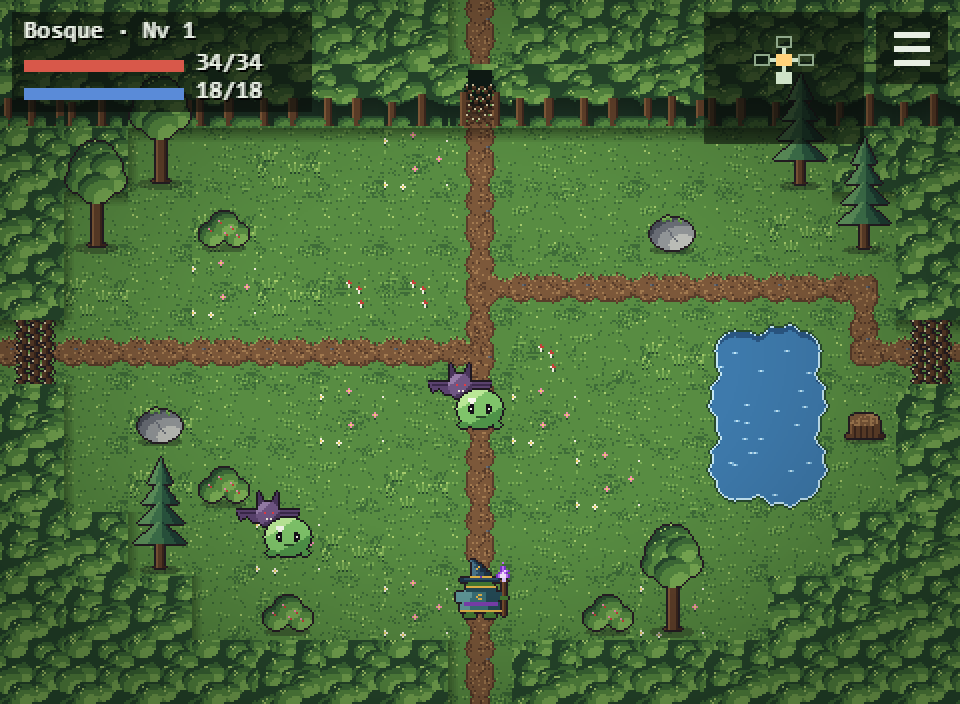
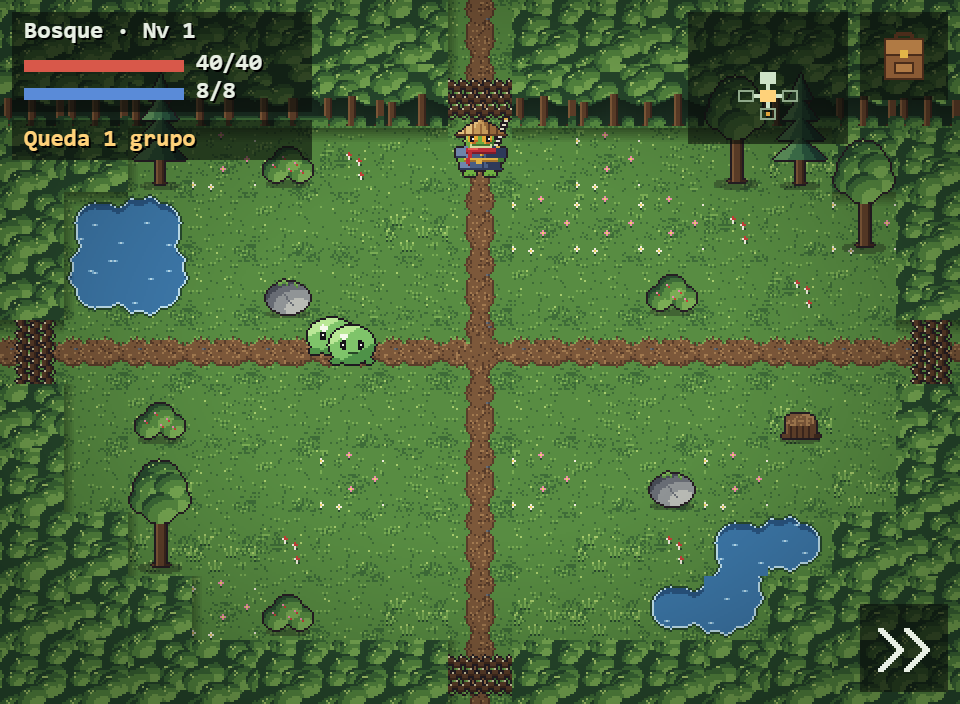
README al día: capturas nuevas, correr, historia, puntos, logros y bestiario
Seis capturas (antes tres) con la fuente, los efectos de habilidad, la
entrada de un jefe, los puntos de mejora y el bestiario.

diff --git a/README.md b/README.md
@@ -1,38 +1,42 @@
 # Nenúfar
 
-Dungeon crawler 2D para navegador y móvil: exploras zonas de salas en tiempo real y, al tocar un monstruo, luchas en un combate por turnos estilo JRPG. Al empezar eliges heroína (una **rana ronin** de cuerpo a cuerpo o una **rana maga** de fuego morado), le pones nombre y eliges dificultad (Fácil, Normal o Difícil). Tres zonas (Bosque, Ruinas y Cripta), un jefe por zona y un jefe final.
+Dungeon crawler 2D para navegador y móvil: exploras zonas de salas en tiempo real y, al tocar un monstruo, luchas en un combate por turnos estilo JRPG. Al empezar eliges heroína (una **rana ronin** de cuerpo a cuerpo o una **rana maga** de fuego morado), le pones nombre y eliges dificultad (Fácil, Normal o Difícil). Tres zonas (Bosque, Ruinas y Cripta), un jefe por zona y un jefe final, unidos por una historia corta: «El Eclipse de las Mil Charcas». Quien vence al jefe final ocupa su lugar: en la partida siguiente, el último jefe lleva tu nombre.
 
-![Las dos ranas junto a la hoguera de una sala del Bosque](public/og.png)
+![Las dos ranas junto a la fuente de la sala de descanso del Bosque](public/og.png)
 
 ### ▶ [Jugar en el navegador](https://pedromiras.github.io/nenufar/)
 
 | Elige heroína | Explora | Lucha |
 | --- | --- | --- |
-| ![Elección de heroína](docs/capturas/seleccion.png) | ![Sala del Bosque con monstruos](docs/capturas/mapa.png) | ![Combate: la maga lanza fuego morado a un limo](docs/capturas/combate.png) |
+| ![Elección de heroína](docs/capturas/seleccion.png) | ![Sala del Bosque con las puertas cerradas y un grupo de limos](docs/capturas/mapa.png) | ![Combate: la ronin usa Tajo del viento contra un limo y un murciélago](docs/capturas/combate.png) |
+| **Enfréntate a los jefes** | **Mejora a tu rana** | **Completa el bestiario** |
+| ![Entrada del Rey Limo](docs/capturas/jefe.png) | ![Pantalla de puntos de mejora](docs/capturas/puntos.png) | ![Bestiario con los monstruos vencidos y el resto en silueta](docs/capturas/bestiario.png) |
 
 ## Cómo se juega
 
 | Acción | Teclado | Táctil |
 | --- | --- | --- |
 | Moverse y elegir | Flechas o WASD | Joystick (arrastra en cualquier punto) |
+| Correr | Mantén Mayúsculas | Botón » (se queda puesto) |
 | Aceptar | Enter, Espacio o Z | Tocar la opción |
 | Inventario (pausa) y volver | Escape o I (X también vuelve) | Botón de la mochila |
 | Qué hace cada opción del combate | I | Botón i (después, un toque elige y otro usa) |
+| Bestiario y logros (en el título) | I | Botón de arriba a la derecha |
 
 En el móvil se juega mejor en horizontal. En vertical el juego lo recomienda, y con «Jugar así igualmente» se estira a todo el ancho de la pantalla.
 
-Cada zona se genera al entrar (`?semilla=N` en la URL repite una partida). Los monstruos patrullan y te persiguen; si los pillas por la espalda, atacas primero. En combate, fíjate en el golpe cargado que anuncian: es el momento de Defender. Sube de nivel, encuentra equipo en el botín y los cofres (lo que no te pones se guarda en la mochila y se cambia desde el Inventario), y bebe de la fuente una vez por zona.
+Cada zona se genera al entrar (`?semilla=N` en la URL repite una partida). Los monstruos patrullan y te persiguen; si los pillas por la espalda, atacas primero. En combate, fíjate en el golpe cargado que anuncian: es el momento de Defender. Cada nivel da puntos de mejora para repartir (vida, maná, ataque, magia, defensa, velocidad o daño crítico). Encuentra equipo en el botín y en los dos cofres de cada zona (lo que no te pones se guarda en la mochila y se cambia desde el Inventario), y bebe de la fuente una vez por zona. Cada dificultad guarda sus récords; además hay seis logros y un bestiario que se completa venciendo a cada monstruo.
 
 ## Qué tiene de interesante por dentro
 
-- **Sin motor:** TypeScript `strict` y Canvas 2D a mano, bucle a 60 Hz fijos con dibujado interpolado y escalado de píxel entero.
-- **Lógica pura y testeada:** `src/core/` no toca el navegador. El combate es una máquina de estados que emite eventos y la escena solo los anima. Vitest cubre generación de zonas, combate, IA, jefes, objetos y progresión.
-- **Datos, no números en el código:** estadísticas, habilidades, monstruos, zonas, botín, música y efectos de sonido viven en `src/data/*.json`.
+- **Sin motor:** TypeScript `strict` y Canvas 2D a mano, bucle a 60 Hz fijos con dibujado interpolado. El canvas se dibuja a la resolución real de la pantalla y lo que se mueve se coloca al píxel físico, para que el pixel art avance suave también en el móvil.
+- **Lógica pura y testeada:** `src/core/` no toca el navegador. El combate es una máquina de estados que emite eventos y la escena solo los anima. Vitest cubre generación de zonas, combate, IA, jefes, objetos, progresión, récords y logros.
+- **Datos, no números en el código:** estadísticas, habilidades, monstruos, zonas, botín, historia, logros, ritmo de las animaciones, música y efectos de sonido viven en `src/data/*.json`.
 - **Equilibrado medido:** un test juega 300 partidas enteras con cada heroína en cada dificultad y exige que lleguen al final el 85-90 % en Fácil, el 70-75 % en Normal y el 50-55 % en Difícil, sin más de 5 puntos entre ellas ([tests/equilibrado.test.ts](tests/equilibrado.test.ts)).
-- **Todo el arte generado por script:** heroínas, monstruos, efectos y tilesets salen de scripts deterministas en Python ([tools/generadores/](tools/generadores/)).
-- **Sonido sintetizado:** música por zona y efectos con Web Audio a partir de notas en JSON; ningún archivo de audio.
+- **Todo el arte generado por script:** heroínas, monstruos, el efecto de cada habilidad y los tilesets salen de scripts deterministas en Python ([tools/generadores/](tools/generadores/)).
+- **Sonido sintetizado:** música por zona y un sonido por habilidad con Web Audio a partir de notas en JSON; ningún archivo de audio.
 - **Accesible:** se juega entero con teclado; lo que pasa en pantalla se lee en una región `aria-live` para lectores de pantalla; respeta `prefers-reduced-motion`.
-- **Ligero:** unos 300 KB de descarga en total.
+- **Ligero:** unos 350 KB de descarga comprimida en total.
 
 📄 **Documento de desarrollo:** https://claude.ai/code/artifact/a6ea0dd0-438d-4190-8647-06fd62dc8754
 
@@ -64,8 +68,8 @@ npm run build   # tipos y build de producción en dist/
 nenufar/
 ├── src/
 │   ├── core/       # lógica pura: zona, salas, movimiento, combate, IA, progresión, música
-│   ├── data/       # JSON de diseño: héroes, monstruos, zonas, objetos, combate, sonido, salas
-│   ├── escenas/    # título, selección, mapa, combate, pausa, equipo y mensajes (pila de escenas)
+│   ├── data/       # JSON de diseño: héroes, monstruos, zonas, objetos, combate, historia, logros, ritmo, sonido, salas
+│   ├── escenas/    # título, selección, mapa, combate, pausa, equipo, puntos, bestiario y logros, historia (pila de escenas)
 │   ├── input/      # teclado, joystick y toque como fuentes de acciones abstractas
 │   └── render/     # canvas, sprites, HUD, sonido, accesibilidad y almacenamiento
 ├── public/assets/
